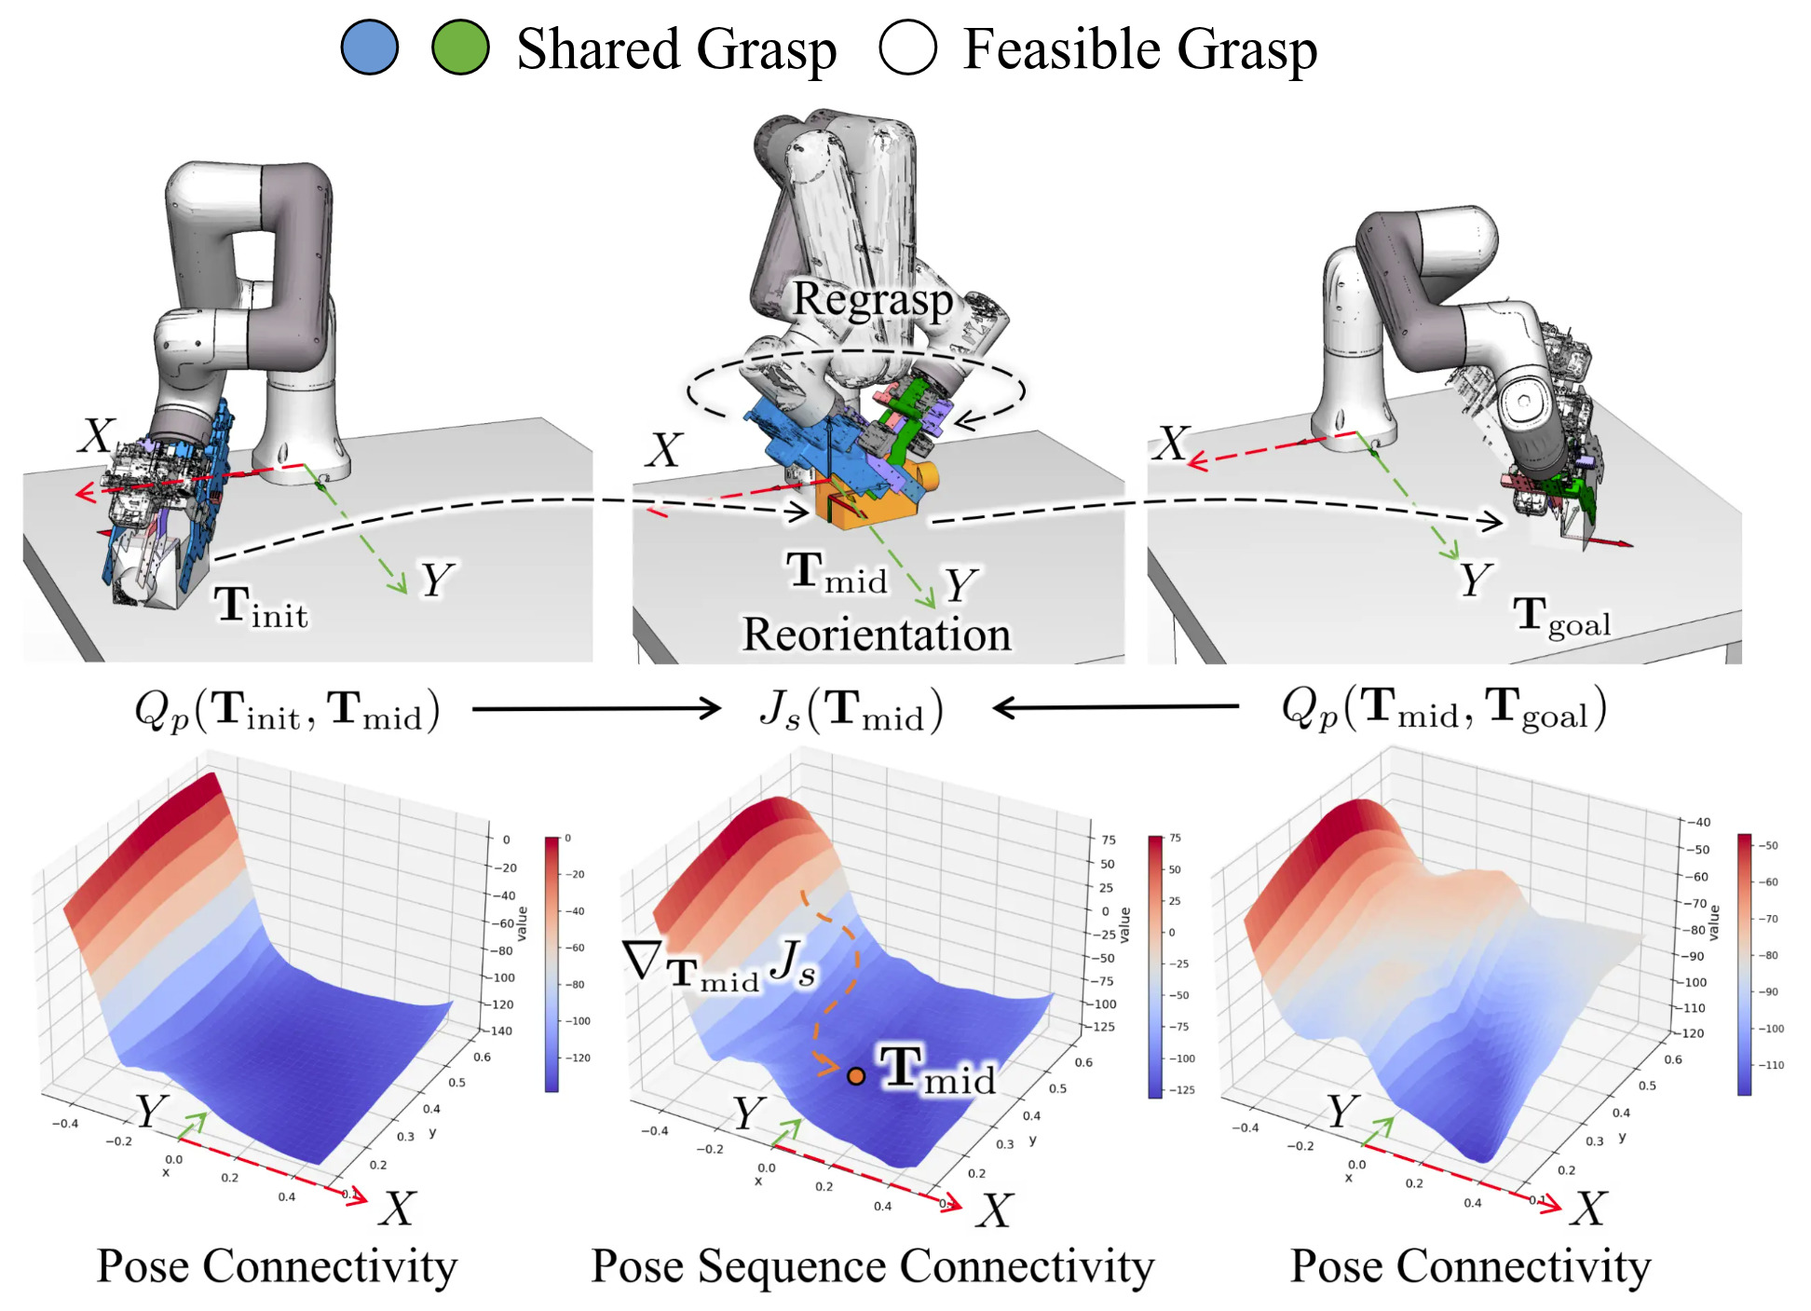
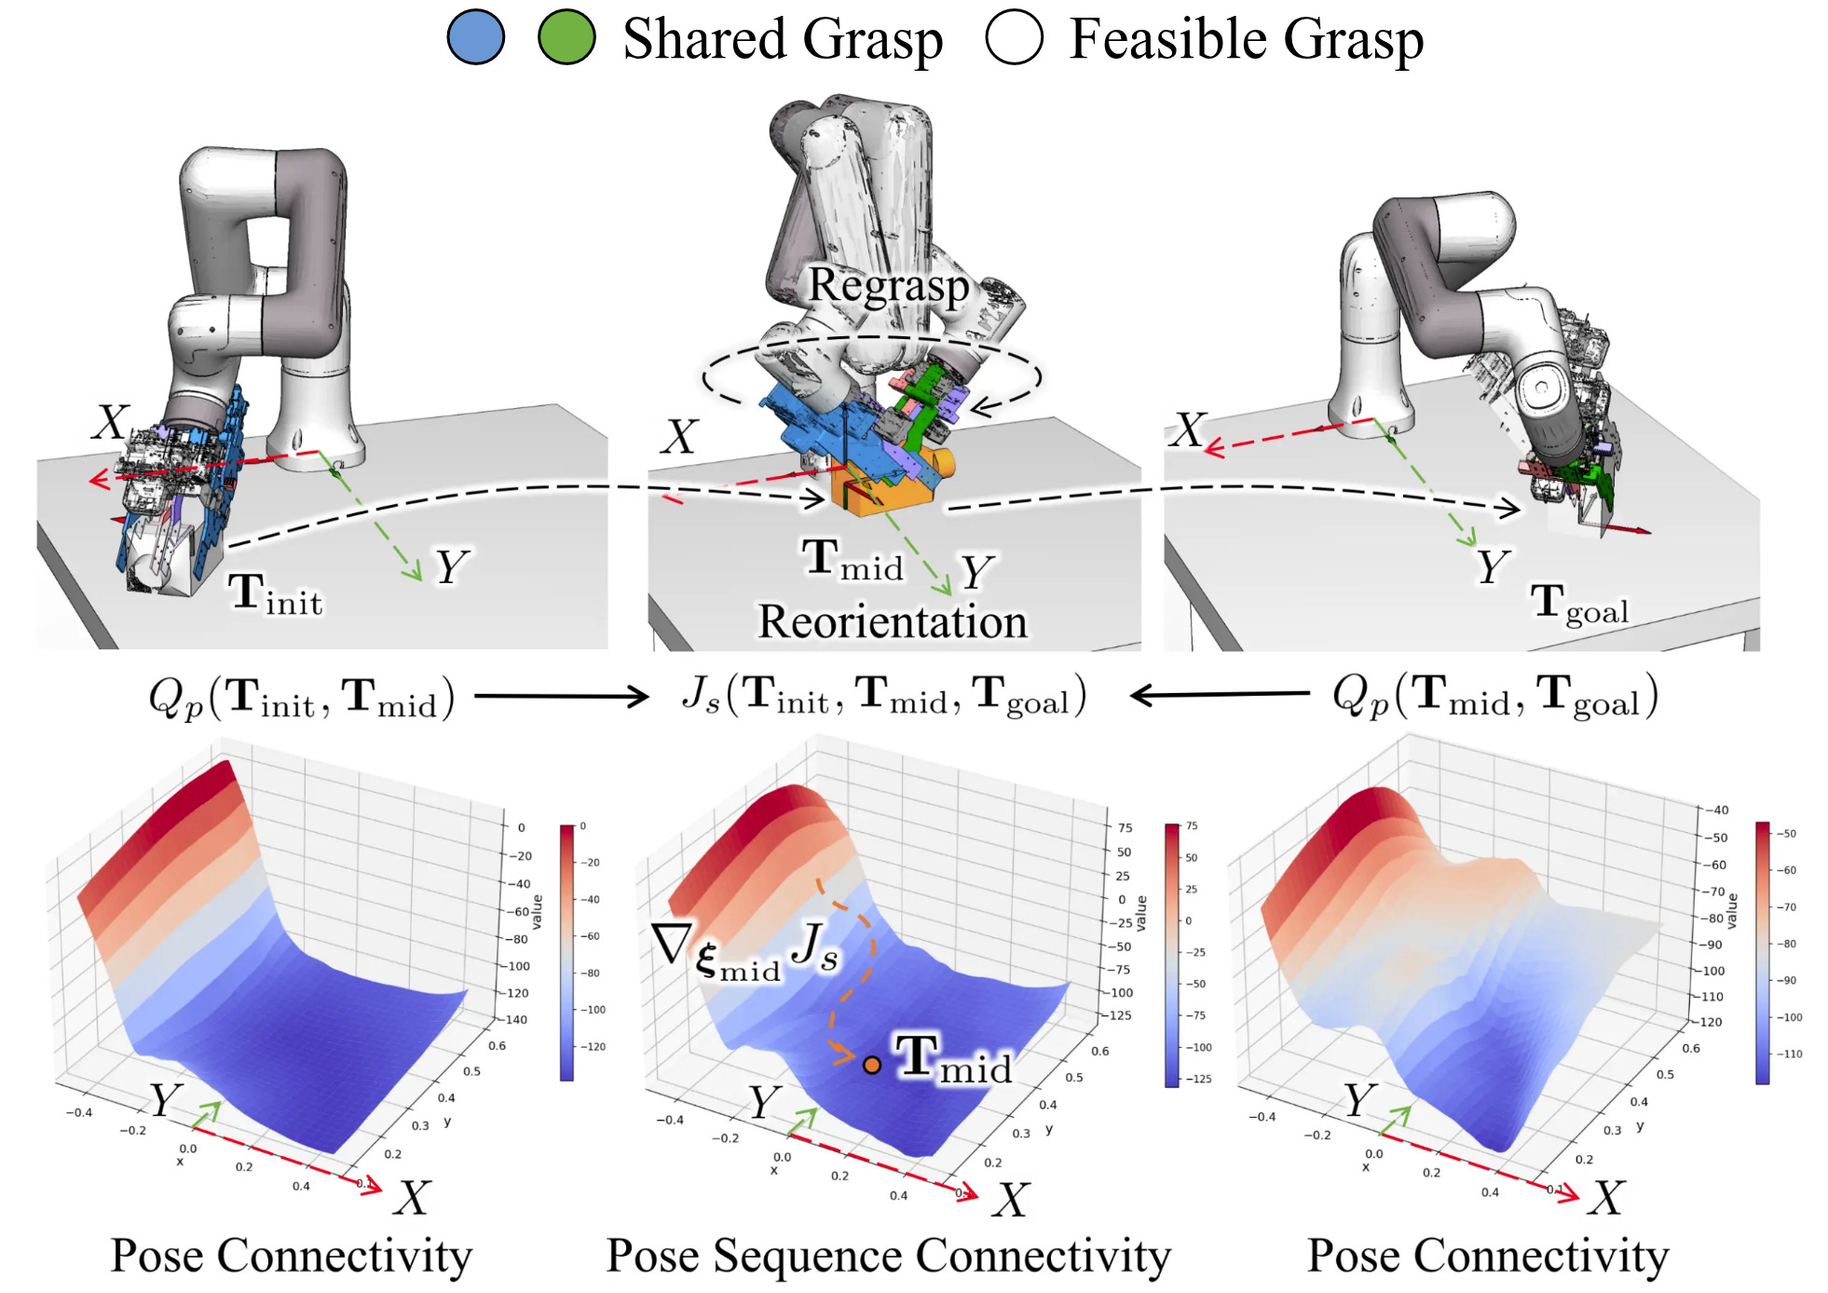
Updates from Overleaf

diff --git a/main.tex b/main.tex
@@ -126,7 +126,7 @@ We address these challenges with an implicit planning framework that turns share
 
 \begin{figure}[t]
     \centering{\includegraphics[width=1\linewidth]{imgs/paper_img_1.jpg}}
-    \caption{\wan{符号统一}\lqin{已统一}When a single pick-and-place manipulation is infeasible under given object poses $\mathbf{T}_{\mathrm{init}}$ and $\mathbf{T}_{\mathrm{goal}}$, a regrasp via an intermediate pose $\mathbf{T}_{\mathrm{mid}}$ (yellow) is required. We propose a \textit{pose connectivity} score $Q_{p}(\mathbf{T}_a, \mathbf{T}_b)$ and a differentiable \textit{pose sequence} cost \uline{$J_{s}(\mathcal{T}_{\mathrm{mid}})$}\lqin{$J_{s}(\mathbf{T}_{\mathrm{mid}})$} based on EBMs to generate an optimal intermediate pose $\mathbf{T}_{\mathrm{mid}}$ by following the gradient $\nabla_{\mathbf{T}_{\mathrm{mid}}}J_s$. This facilitates the construction of a valid object reorientation sequence bridging the $\mathbf{T}_{\mathrm{init}}$ and $\mathbf{T}_{\mathrm{goal}}$, enabling multi-step pick-and-place planning.\protect\footnotemark[1]}
+    \caption{\wan{符号统一}\lqin{已统一}When a single pick-and-place manipulation is infeasible under given object poses $\mathbf{T}_{\mathrm{init}}$ and $\mathbf{T}_{\mathrm{goal}}$, a regrasp via an intermediate pose $\mathbf{T}_{\mathrm{mid}}$ (yellow) is required. We propose a \textit{pose connectivity} score \uline{$Q_{p}(\mathbf{T}_a, \mathbf{T}_b)$}\lqin{$Q_{p}(\mathbf{T}_{\mathrm{init}}, \mathbf{T}_{\mathrm{goal}})$} and a differentiable \textit{pose sequence} cost \uline{$J_{s}(\mathcal{T}_{\mathrm{mid}})$}\lqin{$J_s(\mathbf{T}_{\mathrm{init}},\mathbf{T}_{\mathrm{mid}},\mathbf{T}_{\mathrm{goal}})$} based on EBMs to generate an optimal intermediate pose $\mathbf{T}_{\mathrm{mid}}$ by following the gradient \uline{$\nabla_{\mathbf{T}_{\mathrm{mid}}}J_s$}\lqin{$\nabla_{\boldsymbol{\xi}_{\mathrm{mid}}}J_s$, where $\boldsymbol{\xi}_{\mathrm{mid}}$ is}. This facilitates the construction of a valid object reorientation sequence bridging the $\mathbf{T}_{\mathrm{init}}$ and $\mathbf{T}_{\mathrm{goal}}$, enabling multi-step pick-and-place planning.\protect\footnotemark[1]}
     \label{fig_1}
 \end{figure}
 % \footnotetext[1]{For the 3D visualization, at each planar location $(x,y)$ we aggregate energy over discretized in-plane orientations sampled every $30^\circ$:
@@ -316,7 +316,7 @@ Our goal is to find the minimum number of intermediate poses $N$ and the corresp
     \Return $\operatorname*{argmin}_{\{\mathbf{T}\}_{i=1}^{N} \in \boldsymbol{\Psi}_{\mathrm{top}}} \big( J_{s}(\{\mathbf{T}\}_{i=1}^{N}) \big)$ \;
 \end{algorithm}
  
-In particular, we assume the object has a known shape and is placed in a tabletop environment. Intermediate poses are constrained to planar perturbations around canonical stable placements $\{\mathbf{T}_{\mathrm{s}}^{(a)}\}_{a=1}^{S}$. Each intermediate pose $\mathbf{T}_i$ (with $i=1,\dots,N$) is parameterized by selecting a stable placement index $m \in \{1,\dots,S\}$ and applying planar parameters $\boldsymbol{\xi}_i=[x_i,y_i,\theta_i]^\top$:
+In particular, we assume the object has a known shape and is placed in a tabletop environment. Intermediate poses are constrained to planar perturbations around canonical stable placements \uline{$\{\mathbf{T}_{\mathrm{s}}^{(a)}\}_{a=1}^{S}$}\lqin{这里($a$)的上标跟Fig.~\ref{ti}(a)上标$(m)$似乎有点冲突。}. Each intermediate pose $\mathbf{T}_i$ (with $i=1,\dots,N$) is parameterized by selecting a stable placement index $m \in \{1,\dots,S\}$ and applying planar parameters $\boldsymbol{\xi}_i=[x_i,y_i,\theta_i]^\top$:
 \begin{equation}
     \mathbf{T}_{i}
     =
@@ -340,7 +340,7 @@ where $\mathbf{R}_z(\theta_i)$ denotes a yaw rotation about the world $z$-axis. 
 \end{figure}
 
 % \lqin{As shown in Fig.~\ref{fig_mid_traj_init_final}, intermediate sequences are initialized by applying planar perturbations to randomly sampled stable placement sequences. We generate a batch $\boldsymbol{\Psi}_B$ containing $B$ sequences of length $N$, where each sequence $\mathcal{T}^i_{\mathrm{mid}}$ is perturbed within the $SE(2)$ manifold prior to optimization.}
-To perform optimization, we generate a batch $\boldsymbol{\Psi}_B$ containing $B$ sequences of length $N$ using perturbed canonical placesments. For each particular $N$, we minimize $J_{s}(\{\mathbf{T}\}_{i=0}^{N+1})$ using Langevin dynamics with the following update rule:
+To perform optimization, we generate a batch $\boldsymbol{\Psi}_B$ containing $B$ sequences of length $N$ using perturbed canonical placements. For each particular $N$, we minimize $J_{s}(\{\mathbf{T}\}_{i=0}^{N+1})$ using Langevin dynamics with the following update rule:
 \begin{equation}
     \boldsymbol{\xi}_i^{(k+1)} \leftarrow \boldsymbol{\xi}_i^{(k)} - \eta \nabla_{\boldsymbol{\xi}_i} J_{s}({\{\mathbf{T}\}_{i=0}^{N+1}}^{(k)}) + \sqrt{2\eta \tau} \cdot \boldsymbol{z}_k,
     \label{eq_langevin_update}
@@ -370,11 +370,11 @@ and a naive summation objective without the regularizer:
     \centering
     \small
     \includegraphics[width=1\linewidth]{imgs/shared_grasp_chain_exp.jpg}
-   \caption{Evaluation of pose sequence costs via pose interpolation \lqin{in various grasp candidates 50, 100, 50, 200}. (a) Interpolated object motion from Goal to Start ($\mathbf{T}_{\mathrm{mid}}$). (b) Comparison of energy landscapes: (i) Naive summation $J^{+}_{s}$ exhibits spurious minima due to asymmetric connectivity; (ii) Truncated objective $J^{h}_{s}$ suffers from flat surfaces (vanishing gradients); (iii) Proposed cost $J_{s}$ ($\lambda_{\mathrm{reg}}=0.5$) shows a distinct global minimum with strong gradients. (c) Ground truth count of shared grasps, confirming that $J_{s}$ correctly identifies the valid regrasp region, \lqin{where $|\mathcal{G}_{p}|$ denotes the number of shared grasps for individual pose pairs ($(\mathbf{T}_{\mathrm{init}}, \mathbf{T}_{\mathrm{mid}})$ and $(\mathbf{T}_{\mathrm{mid}}, \mathbf{T}_{\mathrm{goal}})$). Furthermore, $|\mathcal{G}_s|$ represents the sum of shared grasps across the entire sequence $(\mathbf{T}_{\mathrm{init}}, \mathbf{T}_{\mathrm{mid}}, \mathbf{T}_{\mathrm{goal}})$, counted only when both transitions are simultaneously feasible.}}
+   \caption{Evaluation of pose sequence costs via pose interpolation \lqin{in various grasp candidates 50, 100, 50, 200}. (a) Interpolated object motion from Goal to Start ($\mathbf{T}_{\mathrm{mid}}$). (b) Comparison of \uline{energy}\lqin{cost} landscapes: (i) Naive summation $J^{+}_{s}$ exhibits spurious minima due to asymmetric connectivity; (ii) Truncated objective $J^{h}_{s}$ suffers from flat surfaces (vanishing gradients); (iii) Proposed cost $J_{s}$ ($\lambda_{\mathrm{reg}}=0.5$) shows a distinct global minimum with strong gradients. (c) Ground truth count of shared grasps, confirming that $J_{s}$ correctly identifies the valid regrasp region, \lqin{where $|\mathcal{G}_{p}|$ denotes the number of shared grasps for individual pose pairs ($(\mathbf{T}_{\mathrm{init}}, \mathbf{T}_{\mathrm{mid}})$ and $(\mathbf{T}_{\mathrm{mid}}, \mathbf{T}_{\mathrm{goal}})$). Furthermore, $|\mathcal{G}_s|$ represents the sum of shared grasps across the entire sequence $(\mathbf{T}_{\mathrm{init}}, \mathbf{T}_{\mathrm{mid}}, \mathbf{T}_{\mathrm{goal}})$, counted only when both transitions are simultaneously feasible.}}
     \label{fig_shared_grasp_seq_exp}
 \end{figure}
 
-Results are shown in Fig.~\ref{fig_shared_grasp_seq_exp}, the Fig. \ref{fig_shared_grasp_seq_exp}(b.i) reveals the flaw in the naive summation $J^{+}_{s}$: it masks asymmetric connectivity distributions, leading to spurious minima where physical connectivity is broken. Fig. \ref{fig_shared_grasp_seq_exp}(b.ii) shows that $J^{h}_{s}$ creates flat potential surfaces in non-connected regions, causing vanishing gradients that hinder optimization. Conversely, Fig. \ref{fig_shared_grasp_seq_exp}(b.iii) demonstrates the necessity of the energy-variance regularizer in $J_{s}$: it eliminates spurious minima and reshapes the energy landscape into a convex structure with significant gradients, ensuring the optimizer effectively converges to a solution where shared grasps exist across the entire $\{{\mathbf{T}_{\mathrm{init}},\mathbf{T}_{\mathrm{mid}},\mathbf{T}_{\mathrm{goal}}\}}$ sequence. 
+Results are shown in Fig.~\ref{fig_shared_grasp_seq_exp}, the Fig. \ref{fig_shared_grasp_seq_exp}(b.i) reveals the flaw in the naive summation $J^{+}_{s}$: it masks asymmetric connectivity distributions, leading to spurious minima where physical connectivity is broken. Fig. \ref{fig_shared_grasp_seq_exp}(b.ii) shows that $J^{h}_{s}$ creates flat potential surfaces in non-connected regions, causing vanishing gradients that hinder optimization. Conversely, Fig. \ref{fig_shared_grasp_seq_exp}(b.iii) demonstrates the necessity of the energy-variance regularizer in $J_{s}$: it eliminates spurious minima and reshapes the energy landscape into a convex structure with significant gradients, ensuring the optimizer effectively converges to a solution where shared grasps exist across the entire $\{{\mathbf{T}_{\mathrm{init}},\mathbf{T}_{\mathrm{mid}},\mathbf{T}_{\mathrm{goal}}\}}$ sequence. \lqin{And Fig.~\ref{fig_shared_grasp_seq_exp}(c) shows the ground truth variation ($|\mathcal{G}_p|$, $|\mathcal{G}_s|$) of the shared grasp during the intermediate object pose interpolation.}
 
 \subsection{Comparison with Discrete Search Baseline}
 \label{subsub_one_step_generation_exp}
@@ -382,11 +382,11 @@ Results are shown in Fig.~\ref{fig_shared_grasp_seq_exp}, the Fig. \ref{fig_shar
 \begin{figure*}[!htbp]
     \centering
     \includegraphics[width=\linewidth]{imgs/compare.jpg}
-    \caption{Optimization process with the bottle object. (a) Five canonical placements. (b.1-3) Evolution of the \uline{energy landscape}\lqin{$J_s$} during optimization (Blue: low \uline{energy}\lqin{$J_s$}/high connectivity). (c) Comparison of distributions and energies of the valid regrasp poses: (c.1) Ground Truth (GT) obtained through exhaustive grid sampling. Only perturbations varied from canonical placement $\mathbf{T}_s^{(4)}$ has validity. The red grid points had no validities. The points with blue arrows are the valid ones. Each arrow represents a 2D visualization of purterbation $\boldsymbol{\xi}=[x,y,\theta]^\top$. Its starting point is $(x,y)$ and is pointing along the planar yaw $\theta$; (c.2, c.3) Results from the naive cost $J^{+}_{s}$ and the truncated cost $J^{h}_{s}$, respectively. (c.4) Results of the proposed cost $J_{s}$. Samilarly, the arrows represent the perturbations of the returned $\mathbf{T}_{\mathrm{mid}}$, originating at $(x, y)$ and pointing along the planar yaw $\theta$ in $\boldsymbol{\xi}$. The color of the arrows indicates the \uline{energy}\lqin{$J_s$}. The proposed costs led low \uline{energy}\lqin{$J_s$} values and shifted distributions of disturbances for $\mathbf{T}_s^{(4)}$. It also predicts high \uline{energy}\lqin{$J_s$} values for $\mathbf{T}_s^{(0)}\sim\mathbf{T}_s^{(3)}$. The results are more consistent with GT than the naive and truncated costs.}
+    \caption{Optimization process with the bottle object. (a) Five canonical placements. (b.1-3) Evolution of the \uline{energy}\lqin{cost} landscape during optimization (Blue: low \uline{energy}\lqin{cost}/high connectivity). (c) Comparison of distributions and \uline{energies}\lqin{costs} of the valid regrasp poses: (c.1) Ground Truth (GT) obtained through exhaustive grid sampling. Only perturbations varied from canonical placement $\mathbf{T}_s^{(4)}$ has validity. The red grid points had no validity. The points with blue arrows are the valid ones. Each arrow represents a 2D visualization of purterbation $\boldsymbol{\xi}=[x,y,\theta]^\top$. Its starting point is $(x,y)$ and is pointing along the planar yaw $\theta$; (c.2, c.3) Results from the naive cost $J^{+}_{s}$ and the truncated cost $J^{h}_{s}$, respectively. (c.4) Results of the proposed cost $J_{s}$. Samilarly, the arrows represent the perturbations of the returned $\mathbf{T}_{\mathrm{mid}}$, originating at $(x, y)$ and pointing along the planar yaw $\theta$ in $\boldsymbol{\xi}$. The color of the arrows indicates the \uline{energy}\lqin{cost}. The proposed costs led to low \uline{energy}\lqin{cost} values and shifted distributions of disturbances for $\mathbf{T}_s^{(4)}$. It also predicts high \uline{energy}\lqin{cost} values for $\mathbf{T}_s^{(0)}\sim\mathbf{T}_s^{(3)}$. The results are more consistent with GT than the naive and truncated costs.}
     \label{fig_one_step_exp}
 \end{figure*}
 
-To verify the effectiveness of the proposed costs, we designed a single-step reorientation benchmark and compared the results against Ground Truth (GT). Based on the stable placement manifolds defined in Section \ref{subsec_iterative_planning_method}, we established feasible GT regions by performing exhaustive grid sampling on the $SE(2)$ subspace (with a spatial resolution of $0.01$ m and an angular resolution of $60^\circ$) and filtering candidates via the pose sequence cost check. The experiment utilized four representative objects (Bottle, Bunny, Pentagon, Mug shown in Fig. \ref{fig_feasible_grasp} and Fig. \ref{fig_objs}), each with 200 grasp candidates, tested across 10 sampled pose pairs $\{\mathbf{T}_{\mathrm{init}}, \mathbf{T}_{\mathrm{goal}}\}$ that lack shared grasps but are guaranteed to be solvable via a single intermediate transition which at least have a mid pose have shared grasp with $\mathbf{T}_{\mathrm{init}}$ and $\mathbf{T}_{\mathrm{goal}}$, meanwhile we set the sequence length $N_{\mathrm{max}}=1$ in the optimization process. We benchmarked our proposed cost $J_{s}$ against the naive cost $J^{+}_{s}$ and the truncated cost $J^{h}_{s}$. For evaluation, we perform the batch verification as shown in Algorithm~\ref{alg_batch_verify}, and report the average validity rates (the rate where a generated $\mathbf{T}_{\mathrm{mid}}$ has shared grasps with both $\mathbf{T}_{\mathrm{init}}$ and $\mathbf{T}_{\mathrm{goal}}$) for $K_{\mathrm{top}}=200$, $100$, $50$ and $10$.
+To verify the effectiveness of the proposed costs, we designed a single-step reorientation benchmark and compared the results against Ground Truth (GT). Based on the stable placement manifolds defined in Section \ref{subsec_iterative_planning_method}, we established feasible GT regions by performing exhaustive grid sampling on the $SE(2)$ subspace (with a spatial resolution of $0.01$ m and an angular resolution of $60^\circ$) and filtering candidates via the pose sequence \uline{cost}\lqin{hard} check. The experiment utilized four representative objects (Bottle, Bunny, Pentagon, Mug shown in Fig. \ref{fig_feasible_grasp} and Fig. \ref{fig_objs}), each with 200 grasp candidates, tested across 10 sampled pose pairs $\{\mathbf{T}_{\mathrm{init}}, \mathbf{T}_{\mathrm{goal}}\}$ that lack shared grasps but are guaranteed to be solvable via a single intermediate transition which at least have a mid pose have shared grasp with $\mathbf{T}_{\mathrm{init}}$ and $\mathbf{T}_{\mathrm{goal}}$, meanwhile we set the sequence length $N_{\mathrm{max}}=1$ in the optimization process. We benchmarked our proposed cost $J_{s}$ against the naive cost $J^{+}_{s}$ and the truncated cost $J^{h}_{s}$. For evaluation, we perform the batch verification as shown in Algorithm~\ref{alg_batch_verify}, and report the average validity rates (the rate where a generated $\mathbf{T}_{\mathrm{mid}}$ has shared grasps with both $\mathbf{T}_{\mathrm{init}}$ and $\mathbf{T}_{\mathrm{goal}}$) for $K_{\mathrm{top}}=200$, $100$, $50$ and $10$.
 
 \begin{figure}
     \centering
@@ -445,7 +445,7 @@ As presented in the ``Usn'' columns of Table \ref{tab_one_step_exp}, the method 
 
 \subsubsection{Cross-End-Effector Evaluation}
 \label{subsec_unseen_end_effectors}
-To investigate the versatility of the EBM framework, we evaluated its generalization capability across diverse hardware configurations. Six end-effectors (EEs) were classified based on the strictness of their geometric constraints: three parallel grippers (WRS3, Robotiq-140, and Robotiq-85) representing stringent constraints (requiring dual-contact alignment and stroke clearance), and three suction cups representing relaxed constraints (requiring only single-surface contact), with varying Tool Center Point (TCP) offsets across both categories. We conducted a $6 \times 6$ cross-evaluation where an EBM trained on EE $A$ was employed to guide mid-pose optimization for a target EE $B$. To ensure a fair comparison, all EBMs were trained on datasets of equal size (20k samples). We reported the validity rate within the top 100 generated poses, evaluated on randomly sampled object pose pairs, to quantify how effectively the learned energy landscape transfers between hardware with differing physical priors.
+To investigate the versatility of the EBM framework, we evaluated its generalization capability across diverse hardware configurations. Six end-effectors (EEs) were classified based on the strictness of their geometric constraints: three parallel grippers (WRS3, Robotiq-140, and Robotiq-85) representing stringent constraints (requiring dual-contact alignment and stroke clearance), and three suction cups representing relaxed constraints (requiring only single-surface contact), with varying Tool Center Point (TCP) offsets across both categories. We conducted a $6 \times 6$ cross-evaluation where an EBM trained on EE $A$ was employed to guide mid-pose optimization for a target EE $B$. To ensure a fair comparison, all EBMs were trained on datasets of equal size (20k samples). We reported the validity rate within the \uline{top 100}\lqin{$K_{\mathrm{top}}$-100} generated poses, evaluated on randomly sampled object pose pairs, to quantify how effectively the learned energy landscape transfers between hardware with differing physical priors.
 
 % \begin{table}[!htbp]
 % \centering
@@ -780,7 +780,7 @@ The truncation threshold $h$ is determined statistically. We evaluated the model
 
 \subsection{EBM Training Details}
 \label{Appendix_EBM_Training}
-We train the energy function $E_{\phi_f}(\mathbf{T}, \boldsymbol{g})$ to assign lower energy to feasible grasps and higher energy to infeasible ones. The training objective combines three loss terms: (1) Negative Log-Likelihood (NLL) loss that encourages low energy for feasible samples while normalizing via the partition function; (2) Contrastive loss that explicitly separates feasible and infeasible grasps; and (3) Regularization loss that prevents energy divergence. The final loss is $\mathcal{L}_{\text{total}} = \mathcal{L}_{\text{nll}} + \mathcal{L}_{\text{con}} + \alpha\mathcal{L}_{\text{reg}}$, where $\alpha$ is a weighting factor.
+We train the energy function $E_{\phi_f}(\mathbf{T}, \boldsymbol{g})$ to assign lower energy to feasible grasps and higher energy to infeasible ones. The training objective combines three loss terms: (1) Negative Log-Likelihood (NLL) loss that encourages low energy for feasible samples while normalizing via the partition function; (2) Contrastive loss that explicitly separates feasible and infeasible grasps; and (3) Regularization loss that prevents energy divergence. The final loss is \uline{$\mathcal{L}_{\text{total}} = \mathcal{L}_{\text{nll}} + \mathcal{L}_{\text{con}} + \alpha\mathcal{L}_{\text{reg}}$} \lqin{$\mathcal{L}_{\text{total}} = \mathcal{L}_{\text{nll}} + \mathcal{L}_{\text{con}} + \alpha_{\mathrm{reg}}\mathcal{L}_{\text{reg}}$}, where \uline{$\alpha$}\lqin{$\alpha_{\mathrm{reg}}$} is a weighting factor.
 
 Training data is collected following \cite{7139796}: grasp candidates are generated by sampling antipodal contact pairs on object surfaces, and object poses are sampled from stable placements diversified by planar translations and rotations. The EBM is implemented as a three-layer fully connected neural network with SELU activation functions. During inference, grasps are classified as feasible if their energy falls below a threshold $h_f$ determined via validation set F1-score.
 
